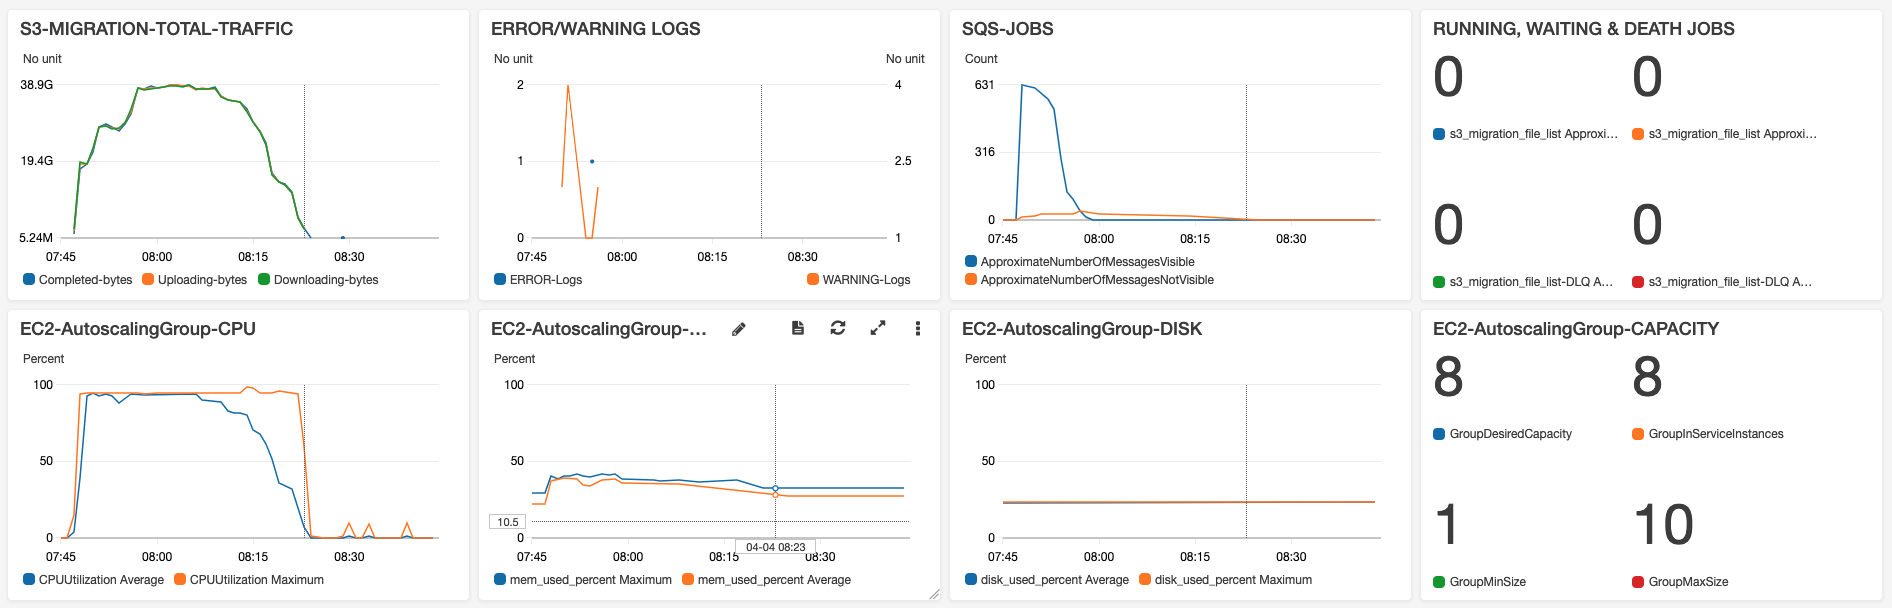
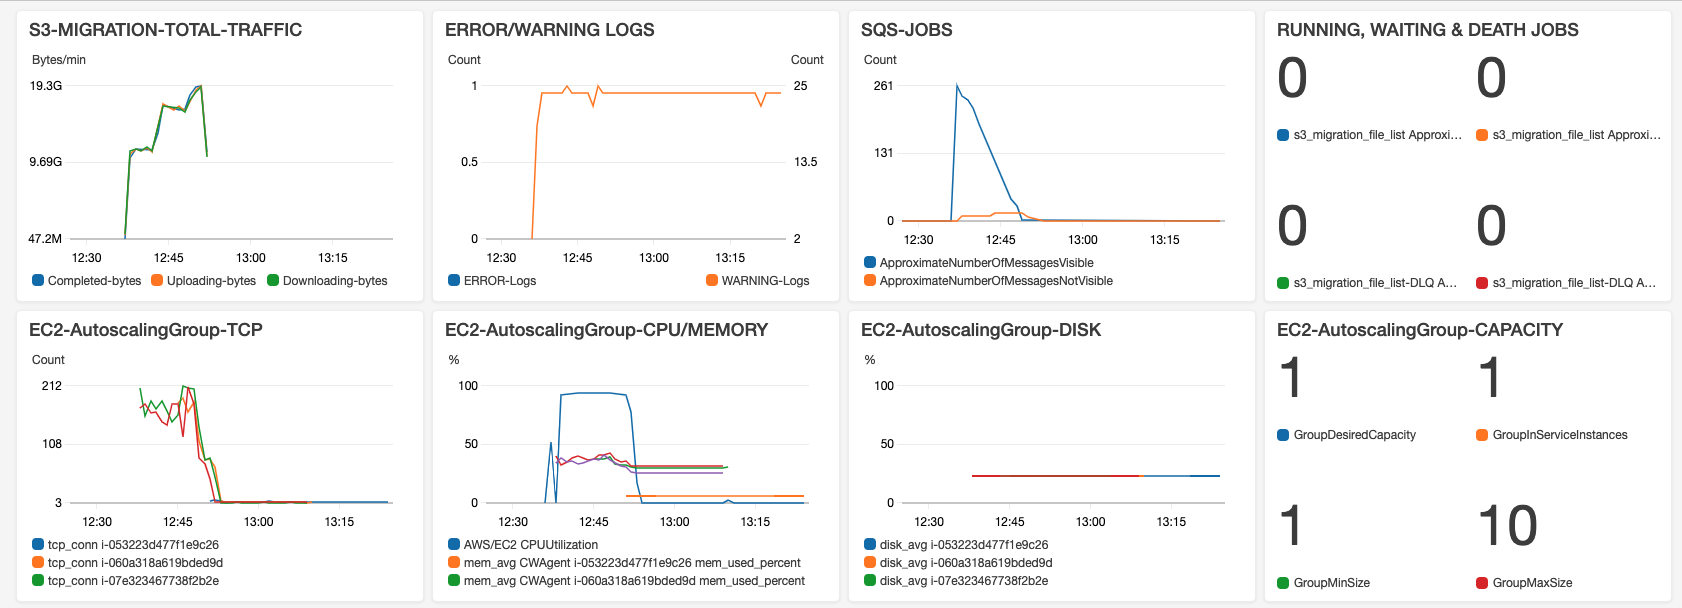
upgrade dashboard

diff --git a/cluster/cdk-cluster/cdk/cdk_ec2_stack.py b/cluster/cdk-cluster/cdk/cdk_ec2_stack.py
@@ -57,6 +57,7 @@ class CdkEc2Stack(core.Stack):
         cw_agent_config['logs']['logs_collected']['files']['collect_list'][1][
             'log_group_name'] = s3_migrate_log.log_group_name
         cw_agent_config['metrics']['append_dimensions']['AutoScalingGroupName'] = "\\${aws:AutoScalingGroupName}"
+        cw_agent_config['metrics']['append_dimensions']['InstanceId'] = "\\${aws:InstanceId}"
         cw_agent_config_str = json.dumps(cw_agent_config, indent=4).replace("\\\\", "\\")
         jobsender_userdata = user_data_part1 + cw_agent_config_str + user_data_jobsender_p
         worker_userdata = user_data_part1 + cw_agent_config_str + user_data_worker_p
@@ -159,15 +160,16 @@ class CdkEc2Stack(core.Stack):
         # Dashboard to monitor SQS and EC2
         board = cw.Dashboard(self, "s3_migrate")
 
-        ec2_metric_cpu_max = cw.Metric(namespace="AWS/EC2",
-                                       metric_name="CPUUtilization",
-                                       dimensions={"AutoScalingGroupName": worker_asg.auto_scaling_group_name},
-                                       period=core.Duration.minutes(1),
-                                       statistic="Maximum")
         ec2_metric_cpu_avg = cw.Metric(namespace="AWS/EC2",
                                        metric_name="CPUUtilization",
                                        dimensions={"AutoScalingGroupName": worker_asg.auto_scaling_group_name},
                                        period=core.Duration.minutes(1))
+
+        ec2_metric_net_out = cw.MathExpression(
+            expression="SEARCH('{AWS/EC2, InstanceId} NetworkOut', 'Average', 60)",
+            label="EC2-NetworkOut",
+            using_metrics={}
+        )
 
         autoscaling_GroupDesiredCapacity = cw.Metric(namespace="AWS/AutoScaling",
                                                      metric_name="GroupDesiredCapacity",
@@ -191,36 +193,27 @@ class CdkEc2Stack(core.Stack):
                                              period=core.Duration.minutes(1))
 
         # CWAgent collected metric
-        cwagent_mem_avg = cw.Metric(namespace="CWAgent",
-                                    metric_name="mem_used_percent",
-                                    dimensions={"AutoScalingGroupName": worker_asg.auto_scaling_group_name},
-                                    statistic="Average",
-                                    period=core.Duration.minutes(1))
-        cwagent_mem_max = cw.Metric(namespace="CWAgent",
-                                    metric_name="mem_used_percent",
-                                    dimensions={"AutoScalingGroupName": worker_asg.auto_scaling_group_name},
-                                    statistic="Maximum",
-                                    period=core.Duration.minutes(1))
-        cwagent_disk_avg = cw.Metric(namespace="CWAgent",
-                                     metric_name="disk_used_percent",
-                                     dimensions={
-                                         "AutoScalingGroupName": worker_asg.auto_scaling_group_name,
-                                         "path": "/",
-                                         "device": "nvme0n1p1",
-                                         "fstype": "xfs"
-                                     },
-                                     statistic="Average",
-                                     period=core.Duration.minutes(1))
-        cwagent_disk_max = cw.Metric(namespace="CWAgent",
-                                     metric_name="disk_used_percent",
-                                     dimensions={
-                                         "AutoScalingGroupName": worker_asg.auto_scaling_group_name,
-                                         "path": "/",
-                                         "device": "nvme0n1p1",
-                                         "fstype": "xfs"
-                                     },
-                                     statistic="Maximum",
-                                     period=core.Duration.minutes(1))
+        cwagent_mem_avg = cw.MathExpression(
+            expression="SEARCH('{CWAgent, AutoScalingGroupName, InstanceId} (AutoScalingGroupName=" +
+                       worker_asg.auto_scaling_group_name +
+                       " AND MetricName=mem_used_percent)', 'Average', 60)",
+            label="mem_avg",
+            using_metrics={}
+        )
+        cwagent_disk_avg = cw.MathExpression(
+            expression="SEARCH('{CWAgent, path, InstanceId, AutoScalingGroupName, device, fstype} "
+                       "(AutoScalingGroupName=" + worker_asg.auto_scaling_group_name +
+                       " AND MetricName=disk_used_percent AND path=\"/\")', 'Average', 60)",
+            label="disk_avg",
+            using_metrics={}
+        )
+        cwagent_net_tcp = cw.MathExpression(
+            expression="SEARCH('{CWAgent, AutoScalingGroupName, InstanceId} (AutoScalingGroupName=" +
+                       worker_asg.auto_scaling_group_name +
+                       " AND MetricName=tcp_established)', 'Average', 60)",
+            label="tcp_conn",
+            using_metrics={}
+        )
 
         # CWAgent collected application logs - filter metric
         s3_migrate_log.add_metric_filter("Completed-bytes",
@@ -276,11 +269,13 @@ class CdkEc2Stack(core.Stack):
 
         board.add_widgets(cw.GraphWidget(title="S3-MIGRATION-TOTAL-TRAFFIC",
                                          left=[traffic_metric_Complete, traffic_metric_Upload,
-                                               traffic_metric_Download]),
+                                               traffic_metric_Download],
+                                         left_y_axis=cw.YAxisProps(label="Bytes/min", show_units=False)),
                           cw.GraphWidget(title="ERROR/WARNING LOGS",
                                          left=[log_metric_ERROR],
+                                         left_y_axis=cw.YAxisProps(label="Count", show_units=False),
                                          right=[log_metric_WARNING],
-                                         height=6),
+                                         right_y_axis=cw.YAxisProps(label="Count", show_units=False)),
                           cw.GraphWidget(title="SQS-JOBS",
                                          left=[sqs_queue.metric_approximate_number_of_messages_visible(
                                              period=core.Duration.minutes(1)),
@@ -298,15 +293,15 @@ class CdkEc2Stack(core.Stack):
                                                height=6)
                           )
 
-        board.add_widgets(cw.GraphWidget(title="EC2-AutoscalingGroup-CPU",
-                                         left=[ec2_metric_cpu_avg, ec2_metric_cpu_max],
-                                         left_y_axis=cw.YAxisProps(max=100, min=0)),
-                          cw.GraphWidget(title="EC2-AutoscalingGroup-MEMORY",
-                                         left=[cwagent_mem_max, cwagent_mem_avg],
-                                         left_y_axis=cw.YAxisProps(max=100, min=0)),
+        board.add_widgets(cw.GraphWidget(title="EC2-AutoscalingGroup-TCP",
+                                         left=[cwagent_net_tcp],
+                                         left_y_axis=cw.YAxisProps(label="Count", show_units=False)),
+                          cw.GraphWidget(title="EC2-AutoscalingGroup-CPU/MEMORY",
+                                         left=[ec2_metric_cpu_avg, cwagent_mem_avg],
+                                         left_y_axis=cw.YAxisProps(max=100, min=0, label="%", show_units=False)),
                           cw.GraphWidget(title="EC2-AutoscalingGroup-DISK",
-                                         left=[cwagent_disk_avg, cwagent_disk_max],
-                                         left_y_axis=cw.YAxisProps(max=100, min=0)),
+                                         left=[cwagent_disk_avg],
+                                         left_y_axis=cw.YAxisProps(max=100, min=0, label="%", show_units=False)),
                           cw.SingleValueWidget(title="EC2-AutoscalingGroup-CAPACITY",
                                                metrics=[autoscaling_GroupDesiredCapacity,
                                                         autoscaling_GroupInServiceInstances,
@@ -314,8 +309,11 @@ class CdkEc2Stack(core.Stack):
                                                         autoscaling_GroupMaxSize],
                                                height=6)
                           )
+        board.add_widgets(cw.GraphWidget(title="EC2-NetworkOut",
+                                         left=[ec2_metric_net_out],
+                                         left_y_axis=cw.YAxisProps(label="Bytes/min", show_units=False)))
 
-        # Autoscaling up when visible message > 100 every 3 of 3 x 5 mins
+        # Autoscaling up when visible message > 100 in 5 mins
         worker_asg.scale_on_metric("scaleup", metric=sqs_queue.metric_approximate_number_of_messages_visible(),
                                    scaling_steps=[autoscaling.ScalingInterval(
                                        change=1,

diff --git a/cluster/README-English.md b/cluster/README-English.md
@@ -191,9 +191,10 @@ CDK has deployed CloudWatch Dashbard:
 RUNNING: The number of Messages in Flight of SQS Queue  
 WAITING: The number of Messages Available of SQS Queue  
 DEATH: The number of message in Death Letter Queue, which collected the messages exceeded max retry times. And when there is in SQS-DLQ, it will trigger SNS email warning.  
-* Amazon EC2 Autoscaling Group CPU  
-* Amazon EC2 Autoscaling Group MEMORY. Collected by CloudWatch Agent.  
-* Amazon EC2 Autoscaling Group DISK. Collected by CloudWatch Agent. Notice that if disk full, it will cause application fail and quit. If Autoscaling Group setup resonable scaling policy, the group scale in from time to time, then old server will be terminated and no worry about the disk full.  
+* Amazon EC2 Autoscaling Group TCP, each worker TCP connections, collected by CloudWatch Agent.
+* Amazon EC2 Autoscaling Group CPU, total CPU Average Utilization.
+* Amazon EC2 Autoscaling Group MEMORY, each worker Memory Average Utilization, collected by CloudWatch Agent.  
+* Amazon EC2 Autoscaling Group DISK, each worker Disk Used, collected by CloudWatch Agent. Notice that if disk full, it will cause application fail and quit. If Autoscaling Group setup resonable scaling policy, the group scale in from time to time, then old server will be terminated and no worry about the disk full.  
 * Autoscaling Group CAPACITY. Collect from Autoscaling Monitor metrics. **Please enable "Group Metrics Collection" in EC2 console -> Autoscaling -> Monitor Tab by MANUALLY.** Which is not supprted by CDK high level api to enable right now.  
 * Autoscaling Up: AWS CDK create alarm trigger according to SQS Messages Available. In 5 mins, Messages > 100, scale 1 EC2. If Message > 500, scale 2 EC2.  
 * Autoscaling Shut Down: When there is no message in SQS queue, scale down EC2 to one instance only. The setup is: AWS CDK created Metrics Expression: SQS Messages Available + Messages in Flight = 0 AND EC2 count >1, then trigger Autoscaling Group EC2 desired capacity set to 1, and at the same time to send SNS email notification. This notification means jobs finished in batch. And because we set the condition "EC2 count >1" here, so it will only notify email once, and not send email in every 15 mins. According to your requirement to set desired capacity to 0, terminated all.

diff --git a/cluster/README.md b/cluster/README.md
@@ -192,9 +192,10 @@ CDK 已经自动部署了 CloudWatch Dashbard:
 RUNNING 是 Amazon SQS 队列监控多少是正在进行的 ( Messages in Flight )   
 WAITING 即多少任务在排队 ( Messages Available )  
 DEATH 即死信队列 s3_migrate_file_list-DLQ 收集在正常队列中处理失败超过次数的消息（默认配置重试24次），出现 DLQ 会触发 SNS 告警邮件。
-* Amazon EC2 Autoscaling Group CPU  
-* Amazon EC2 Autoscaling Group 内存。通过 CloudWatch Agent 收集。  
-* Amazon EC2 Autoscaling Group 本地盘空间，通过 CloudWatch Agent 收集。注意如果满了会导致应用写日志失败而退出。如果 Autoscaling Group 策略设置合理，经常伸缩，则由于旧服务器会被终止，所以不必担心日志满。  
+* Amazon EC2 Autoscaling Group TCP 每台服务器的连接数，通过 CloudWatch Agent 收集。
+* Amazon EC2 Autoscaling Group CPU 总的平均占用率  
+* Amazon EC2 Autoscaling Group MEMORY，每台服务器的内存占用率，通过 CloudWatch Agent 收集。  
+* Amazon EC2 Autoscaling Group DISK，每台服务器的磁盘占用率，通过 CloudWatch Agent 收集。注意如果满了会导致应用写日志失败而退出。如果 Autoscaling Group 策略设置合理，经常伸缩，则由于旧服务器会被终止，所以不必担心日志满。  
 * Autoscaling Group CAPACITY 实例数量，这个值需要你手工到 EC2 控制台 Autoscaling 菜单的 Monitor 分页，去 Enable "Group Metrics Collection" 功能才能收集到。
 * Autoscaling Up: AWS CDK 创建了基于 SQS 队列 Messages Available 的 Alarm，5 分钟大于 100 消息触发 Autoscaling 增加 1 台EC2，超过 500 消息则直接增加 2 台。 
 * Autoscaling Shut Down: 队列中无消息时会将 EC2 数量降到 1。实现方式是：AWS CDK 创建了表达式 Expression: SQS Messages Available + Messages in Flight = 0 ，并且 EC2 数量大于1，则触发自动缩减 EC2 数量直接设为 1，并同时发送 SNS 告警 EMAIL 通知。这个告警可以作为批量传输完成后的通知，而且这样设置了 EC2 当前数量的判断，于是只会在一批次缩减的时候通知一次，而不会不停地每15分钟通知一次。你也可以根据场景需求，把这里自动设置为 0 ，即一次性关闭全部。  
